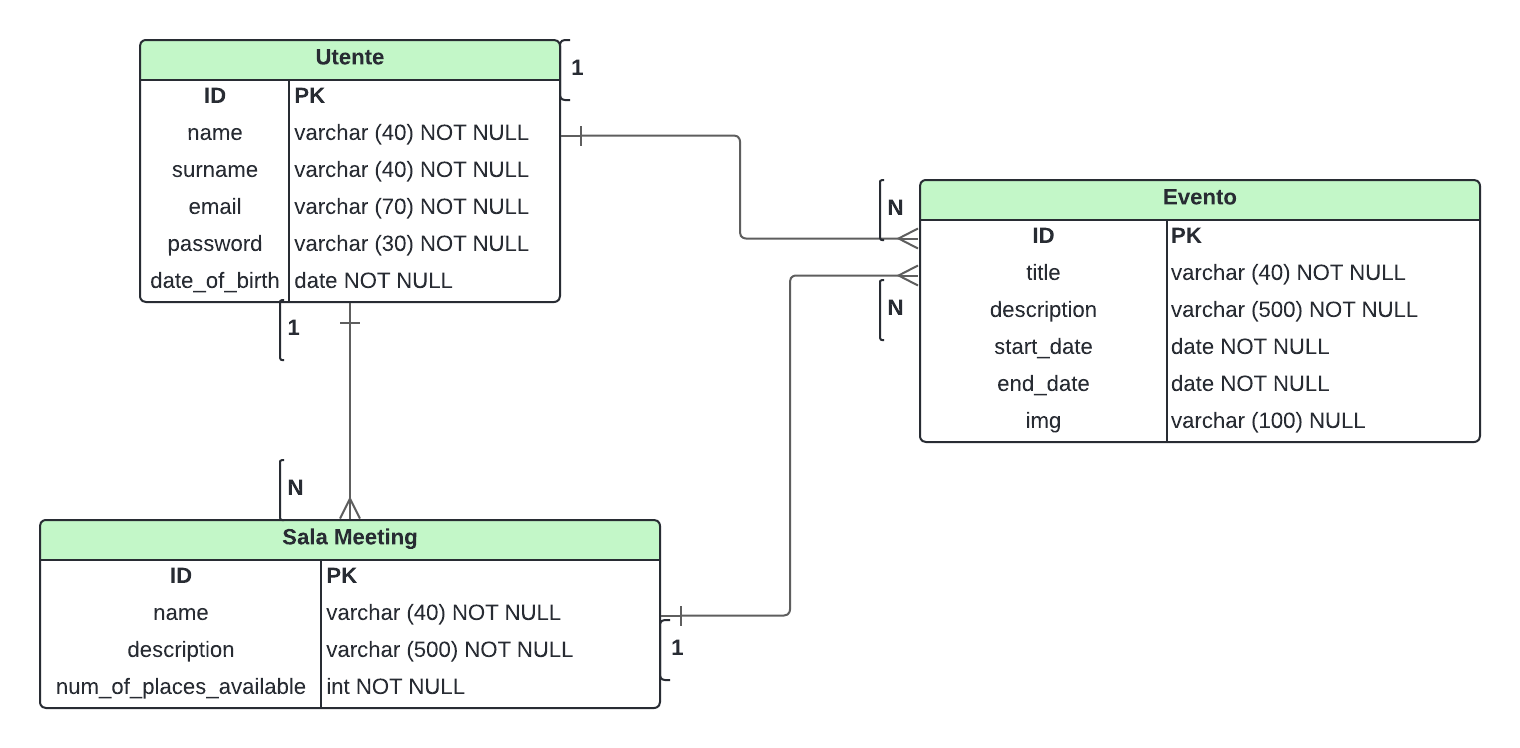
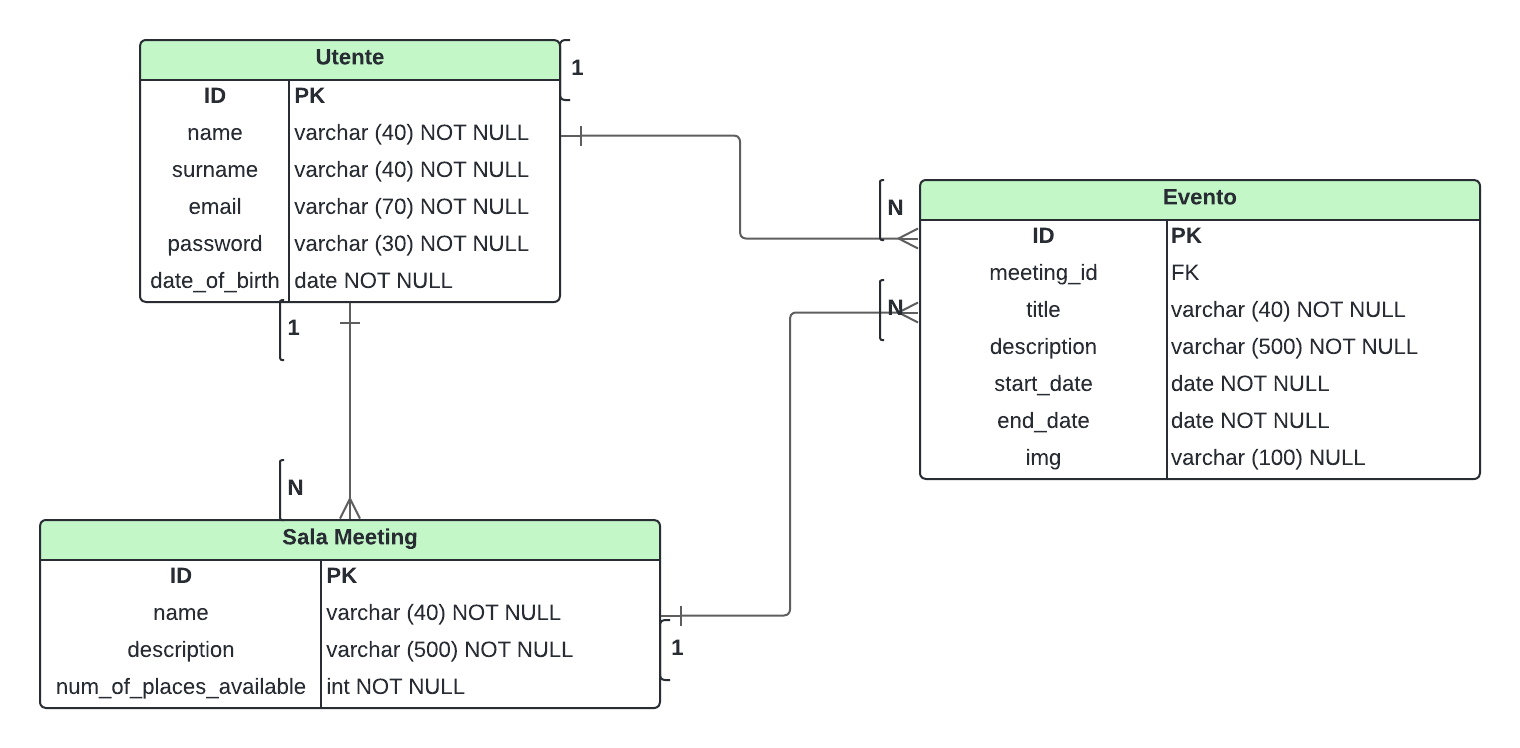
UP: Edit file of ER database, add route, style and dashboard controller

diff --git a/resources/scss/app.scss b/resources/scss/app.scss
@@ -1,1 +1,81 @@
-@import '~bootstrap/scss/bootstrap'
+// IMPORTO BOOTSTRAP
+@import '~bootstrap/scss/bootstrap';
+
+// IMPORTO IL FONT
+@import url('https://fonts.googleapis.com/css2?family=Montserrat&display=swap');
+
+// REGOLE CSS GENERALI
+* {
+    margin: 0;
+    padding: 0;
+    box-sizing: border-box;
+}
+
+// BODY
+body {
+    font-family: 'Montserrat', sans-serif;
+}
+
+// HEADER
+.header-nav {
+    z-index: 2;
+}
+
+.nav-header {
+    text-decoration: none;
+    color: white;
+    transition: 0.2s;
+    border-bottom: 3px solid transparent;
+
+    &.active,
+    &:hover {
+        color: #00c1d4;
+        font-weight: 900;
+        transform: scale(1.2);
+    }
+}
+
+// SIDEBAR
+.nav-link {
+    transition: 0.5s;
+    color: white;
+
+    &:hover {
+        background-color: #6C63FF;
+        border-radius: 7px;
+        color: white;
+    }
+}
+
+.nav-bottom {
+    background-color: #6C63FF;
+    border-radius: 13px;
+    margin: 5px 0;
+    transition: 0.4s;
+
+    &:hover {
+        transform: scale(1.1);
+    }
+}
+
+.navbar-nav .nav-link.active,
+.navbar-nav .nav-link.show {
+    background-color: #6C63FF;
+    border-radius: 7px;
+    color: white;
+}
+
+.lateral-sidebar {
+    height: 100vh;
+    width: 200px;
+    position: fixed;
+    z-index: 1;
+    top: 0;
+    left: 0;
+    overflow-y: hidden;
+    padding-top: 45px;
+}
+
+.bg-violet{
+    background-color: #6C63FF;
+}

diff --git a/resources/views/layouts/app.blade.php b/resources/views/layouts/app.blade.php
@@ -21,70 +21,10 @@
 
 <body>
     <div id="app">
-
-
-        <nav class="navbar navbar-expand-md navbar-light bg-white shadow-sm">
-            <div class="container">
-                <a class="navbar-brand d-flex align-items-center" href="{{ url('/') }}">
-                    <div class="logo_laravel">
-                        <svg viewBox="0 0 651 192" fill="none" xmlns="http://www.w3.org/2000/svg" style="width: 150px">
-                            <g clip-path="url(#clip0)" fill="#EF3B2D">
-                                <path d="M248.032 44.676h-16.466v100.23h47.394v-14.748h-30.928V44.676zM337.091 87.202c-2.101-3.341-5.083-5.965-8.949-7.875-3.865-1.909-7.756-2.864-11.669-2.864-5.062 0-9.69.931-13.89 2.792-4.201 1.861-7.804 4.417-10.811 7.661-3.007 3.246-5.347 6.993-7.016 11.239-1.672 4.249-2.506 8.713-2.506 13.389 0 4.774.834 9.26 2.506 13.459 1.669 4.202 4.009 7.925 7.016 11.169 3.007 3.246 6.609 5.799 10.811 7.66 4.199 1.861 8.828 2.792 13.89 2.792 3.913 0 7.804-.955 11.669-2.863 3.866-1.908 6.849-4.533 8.949-7.875v9.021h15.607V78.182h-15.607v9.02zm-1.431 32.503c-.955 2.578-2.291 4.821-4.009 6.73-1.719 1.91-3.795 3.437-6.229 4.582-2.435 1.146-5.133 1.718-8.091 1.718-2.96 0-5.633-.572-8.019-1.718-2.387-1.146-4.438-2.672-6.156-4.582-1.719-1.909-3.032-4.152-3.938-6.73-.909-2.577-1.36-5.298-1.36-8.161 0-2.864.451-5.585 1.36-8.162.905-2.577 2.219-4.819 3.938-6.729 1.718-1.908 3.77-3.437 6.156-4.582 2.386-1.146 5.059-1.718 8.019-1.718 2.958 0 5.656.572 8.091 1.718 2.434 1.146 4.51 2.674 6.229 4.582 1.718 1.91 3.054 4.152 4.009 6.729.953 2.577 1.432 5.298 1.432 8.162-.001 2.863-.479 5.584-1.432 8.161zM463.954 87.202c-2.101-3.341-5.083-5.965-8.949-7.875-3.865-1.909-7.756-2.864-11.669-2.864-5.062 0-9.69.931-13.89 2.792-4.201 1.861-7.804 4.417-10.811 7.661-3.007 3.246-5.347 6.993-7.016 11.239-1.672 4.249-2.506 8.713-2.506 13.389 0 4.774.834 9.26 2.506 13.459 1.669 4.202 4.009 7.925 7.016 11.169 3.007 3.246 6.609 5.799 10.811 7.66 4.199 1.861 8.828 2.792 13.89 2.792 3.913 0 7.804-.955 11.669-2.863 3.866-1.908 6.849-4.533 8.949-7.875v9.021h15.607V78.182h-15.607v9.02zm-1.432 32.503c-.955 2.578-2.291 4.821-4.009 6.73-1.719 1.91-3.795 3.437-6.229 4.582-2.435 1.146-5.133 1.718-8.091 1.718-2.96 0-5.633-.572-8.019-1.718-2.387-1.146-4.438-2.672-6.156-4.582-1.719-1.909-3.032-4.152-3.938-6.73-.909-2.577-1.36-5.298-1.36-8.161 0-2.864.451-5.585 1.36-8.162.905-2.577 2.219-4.819 3.938-6.729 1.718-1.908 3.77-3.437 6.156-4.582 2.386-1.146 5.059-1.718 8.019-1.718 2.958 0 5.656.572 8.091 1.718 2.434 1.146 4.51 2.674 6.229 4.582 1.718 1.91 3.054 4.152 4.009 6.729.953 2.577 1.432 5.298 1.432 8.162 0 2.863-.479 5.584-1.432 8.161zM650.772 44.676h-15.606v100.23h15.606V44.676zM365.013 144.906h15.607V93.538h26.776V78.182h-42.383v66.724zM542.133 78.182l-19.616 51.096-19.616-51.096h-15.808l25.617 66.724h19.614l25.617-66.724h-15.808zM591.98 76.466c-19.112 0-34.239 15.706-34.239 35.079 0 21.416 14.641 35.079 36.239 35.079 12.088 0 19.806-4.622 29.234-14.688l-10.544-8.158c-.006.008-7.958 10.449-19.832 10.449-13.802 0-19.612-11.127-19.612-16.884h51.777c2.72-22.043-11.772-40.877-33.023-40.877zm-18.713 29.28c.12-1.284 1.917-16.884 18.589-16.884 16.671 0 18.697 15.598 18.813 16.884h-37.402zM184.068 43.892c-.024-.088-.073-.165-.104-.25-.058-.157-.108-.316-.191-.46-.056-.097-.137-.176-.203-.265-.087-.117-.161-.242-.265-.345-.085-.086-.194-.148-.29-.223-.109-.085-.206-.182-.327-.252l-.002-.001-.002-.002-35.648-20.524a2.971 2.971 0 00-2.964 0l-35.647 20.522-.002.002-.002.001c-.121.07-.219.167-.327.252-.096.075-.205.138-.29.223-.103.103-.178.228-.265.345-.066.089-.147.169-.203.265-.083.144-.133.304-.191.46-.031.085-.08.162-.104.25-.067.249-.103.51-.103.776v38.979l-29.706 17.103V24.493a3 3 0 00-.103-.776c-.024-.088-.073-.165-.104-.25-.058-.157-.108-.316-.191-.46-.056-.097-.137-.176-.203-.265-.087-.117-.161-.242-.265-.345-.085-.086-.194-.148-.29-.223-.109-.085-.206-.182-.327-.252l-.002-.001-.002-.002L40.098 1.396a2.971 2.971 0 00-2.964 0L1.487 21.919l-.002.002-.002.001c-.121.07-.219.167-.327.252-.096.075-.205.138-.29.223-.103.103-.178.228-.265.345-.066.089-.147.169-.203.265-.083.144-.133.304-.191.46-.031.085-.08.162-.104.25-.067.249-.103.51-.103.776v122.09c0 1.063.568 2.044 1.489 2.575l71.293 41.045c.156.089.324.143.49.202.078.028.15.074.23.095a2.98 2.98 0 001.524 0c.069-.018.132-.059.2-.083.176-.061.354-.119.519-.214l71.293-41.045a2.971 2.971 0 001.489-2.575v-38.979l34.158-19.666a2.971 2.971 0 001.489-2.575V44.666a3.075 3.075 0 00-.106-.774zM74.255 143.167l-29.648-16.779 31.136-17.926.001-.001 34.164-19.669 29.674 17.084-21.772 12.428-43.555 24.863zm68.329-76.259v33.841l-12.475-7.182-17.231-9.92V49.806l12.475 7.182 17.231 9.92zm2.97-39.335l29.693 17.095-29.693 17.095-29.693-17.095 29.693-17.095zM54.06 114.089l-12.475 7.182V46.733l17.231-9.92 12.475-7.182v74.537l-17.231 9.921zM38.614 7.398l29.693 17.095-29.693 17.095L8.921 24.493 38.614 7.398zM5.938 29.632l12.475 7.182 17.231 9.92v79.676l.001.005-.001.006c0 .114.032.221.045.333.017.146.021.294.059.434l.002.007c.032.117.094.222.14.334.051.124.088.255.156.371a.036.036 0 00.004.009c.061.105.149.191.222.288.081.105.149.22.244.314l.008.01c.084.083.19.142.284.215.106.083.202.178.32.247l.013.005.011.008 34.139 19.321v34.175L5.939 144.867V29.632h-.001zm136.646 115.235l-65.352 37.625V148.31l48.399-27.628 16.953-9.677v33.862zm35.646-61.22l-29.706 17.102V66.908l17.231-9.92 12.475-7.182v33.841z" />
-                            </g>
-                        </svg>
-                    </div>
-                    {{-- config('app.name', 'Laravel') --}}
-                </a>
-
-                <button class="navbar-toggler" type="button" data-bs-toggle="collapse" data-bs-target="#navbarSupportedContent" aria-controls="navbarSupportedContent" aria-expanded="false" aria-label="{{ __('Toggle navigation') }}">
-                    <span class="navbar-toggler-icon"></span>
-                </button>
-
-                <div class="collapse navbar-collapse" id="navbarSupportedContent">
-                    <!-- Left Side Of Navbar -->
-                    <ul class="navbar-nav me-auto">
-                        <li class="nav-item">
-                            <a class="nav-link" href="{{url('/') }}">{{ __('Home') }}</a>
-                        </li>
-                    </ul>
-
-                    <!-- Right Side Of Navbar -->
-                    <ul class="navbar-nav ml-auto">
-                        <!-- Authentication Links -->
-                        @guest
-                        <li class="nav-item">
-                            <a class="nav-link" href="{{ route('login') }}">{{ __('Login') }}</a>
-                        </li>
-                        @if (Route::has('register'))
-                        <li class="nav-item">
-                            <a class="nav-link" href="{{ route('register') }}">{{ __('Register') }}</a>
-                        </li>
-                        @endif
-                        @else
-                        <li class="nav-item dropdown">
-                            <a id="navbarDropdown" class="nav-link dropdown-toggle" href="#" role="button" data-bs-toggle="dropdown" aria-haspopup="true" aria-expanded="false" v-pre>
-                                {{ Auth::user()->name }}
-                            </a>
-
-                            <div class="dropdown-menu dropdown-menu-right" aria-labelledby="navbarDropdown">
-                                <a class="dropdown-item" href="{{ url('dashboard') }}">{{__('Dashboard')}}</a>
-                                <a class="dropdown-item" href="{{ url('profile') }}">{{__('Profile')}}</a>
-                                <a class="dropdown-item" href="{{ route('logout') }}" onclick="event.preventDefault();
-                                                     document.getElementById('logout-form').submit();">
-                                    {{ __('Logout') }}
-                                </a>
-
-                                <form id="logout-form" action="{{ route('logout') }}" method="POST" class="d-none">
-                                    @csrf
-                                </form>
-                            </div>
-                        </li>
-                        @endguest
-                    </ul>
-                </div>
-            </div>
-        </nav>
-
+        {{-- HEADER --}}
+        @include('partials.header')
+        
+        {{-- MAIN --}}
         <main class="">
             @yield('content')
         </main>

diff --git a/resources/views/partials/header.blade.php b/resources/views/partials/header.blade.php
@@ -1,0 +1,61 @@
+<nav class="navbar navbar-expand-md navbar-light bg-dark shadow-sm header-nav">
+    <div class="container">
+        <a class="navbar-brand d-flex align-items-center" href="{{ url('/') }}">
+            <div class="logo_laravel">
+                <svg viewBox="0 0 651 192" fill="none" xmlns="http://www.w3.org/2000/svg" style="width: 150px">
+                    <g clip-path="url(#clip0)" fill="#EF3B2D">
+                        <path d="M248.032 44.676h-16.466v100.23h47.394v-14.748h-30.928V44.676zM337.091 87.202c-2.101-3.341-5.083-5.965-8.949-7.875-3.865-1.909-7.756-2.864-11.669-2.864-5.062 0-9.69.931-13.89 2.792-4.201 1.861-7.804 4.417-10.811 7.661-3.007 3.246-5.347 6.993-7.016 11.239-1.672 4.249-2.506 8.713-2.506 13.389 0 4.774.834 9.26 2.506 13.459 1.669 4.202 4.009 7.925 7.016 11.169 3.007 3.246 6.609 5.799 10.811 7.66 4.199 1.861 8.828 2.792 13.89 2.792 3.913 0 7.804-.955 11.669-2.863 3.866-1.908 6.849-4.533 8.949-7.875v9.021h15.607V78.182h-15.607v9.02zm-1.431 32.503c-.955 2.578-2.291 4.821-4.009 6.73-1.719 1.91-3.795 3.437-6.229 4.582-2.435 1.146-5.133 1.718-8.091 1.718-2.96 0-5.633-.572-8.019-1.718-2.387-1.146-4.438-2.672-6.156-4.582-1.719-1.909-3.032-4.152-3.938-6.73-.909-2.577-1.36-5.298-1.36-8.161 0-2.864.451-5.585 1.36-8.162.905-2.577 2.219-4.819 3.938-6.729 1.718-1.908 3.77-3.437 6.156-4.582 2.386-1.146 5.059-1.718 8.019-1.718 2.958 0 5.656.572 8.091 1.718 2.434 1.146 4.51 2.674 6.229 4.582 1.718 1.91 3.054 4.152 4.009 6.729.953 2.577 1.432 5.298 1.432 8.162-.001 2.863-.479 5.584-1.432 8.161zM463.954 87.202c-2.101-3.341-5.083-5.965-8.949-7.875-3.865-1.909-7.756-2.864-11.669-2.864-5.062 0-9.69.931-13.89 2.792-4.201 1.861-7.804 4.417-10.811 7.661-3.007 3.246-5.347 6.993-7.016 11.239-1.672 4.249-2.506 8.713-2.506 13.389 0 4.774.834 9.26 2.506 13.459 1.669 4.202 4.009 7.925 7.016 11.169 3.007 3.246 6.609 5.799 10.811 7.66 4.199 1.861 8.828 2.792 13.89 2.792 3.913 0 7.804-.955 11.669-2.863 3.866-1.908 6.849-4.533 8.949-7.875v9.021h15.607V78.182h-15.607v9.02zm-1.432 32.503c-.955 2.578-2.291 4.821-4.009 6.73-1.719 1.91-3.795 3.437-6.229 4.582-2.435 1.146-5.133 1.718-8.091 1.718-2.96 0-5.633-.572-8.019-1.718-2.387-1.146-4.438-2.672-6.156-4.582-1.719-1.909-3.032-4.152-3.938-6.73-.909-2.577-1.36-5.298-1.36-8.161 0-2.864.451-5.585 1.36-8.162.905-2.577 2.219-4.819 3.938-6.729 1.718-1.908 3.77-3.437 6.156-4.582 2.386-1.146 5.059-1.718 8.019-1.718 2.958 0 5.656.572 8.091 1.718 2.434 1.146 4.51 2.674 6.229 4.582 1.718 1.91 3.054 4.152 4.009 6.729.953 2.577 1.432 5.298 1.432 8.162 0 2.863-.479 5.584-1.432 8.161zM650.772 44.676h-15.606v100.23h15.606V44.676zM365.013 144.906h15.607V93.538h26.776V78.182h-42.383v66.724zM542.133 78.182l-19.616 51.096-19.616-51.096h-15.808l25.617 66.724h19.614l25.617-66.724h-15.808zM591.98 76.466c-19.112 0-34.239 15.706-34.239 35.079 0 21.416 14.641 35.079 36.239 35.079 12.088 0 19.806-4.622 29.234-14.688l-10.544-8.158c-.006.008-7.958 10.449-19.832 10.449-13.802 0-19.612-11.127-19.612-16.884h51.777c2.72-22.043-11.772-40.877-33.023-40.877zm-18.713 29.28c.12-1.284 1.917-16.884 18.589-16.884 16.671 0 18.697 15.598 18.813 16.884h-37.402zM184.068 43.892c-.024-.088-.073-.165-.104-.25-.058-.157-.108-.316-.191-.46-.056-.097-.137-.176-.203-.265-.087-.117-.161-.242-.265-.345-.085-.086-.194-.148-.29-.223-.109-.085-.206-.182-.327-.252l-.002-.001-.002-.002-35.648-20.524a2.971 2.971 0 00-2.964 0l-35.647 20.522-.002.002-.002.001c-.121.07-.219.167-.327.252-.096.075-.205.138-.29.223-.103.103-.178.228-.265.345-.066.089-.147.169-.203.265-.083.144-.133.304-.191.46-.031.085-.08.162-.104.25-.067.249-.103.51-.103.776v38.979l-29.706 17.103V24.493a3 3 0 00-.103-.776c-.024-.088-.073-.165-.104-.25-.058-.157-.108-.316-.191-.46-.056-.097-.137-.176-.203-.265-.087-.117-.161-.242-.265-.345-.085-.086-.194-.148-.29-.223-.109-.085-.206-.182-.327-.252l-.002-.001-.002-.002L40.098 1.396a2.971 2.971 0 00-2.964 0L1.487 21.919l-.002.002-.002.001c-.121.07-.219.167-.327.252-.096.075-.205.138-.29.223-.103.103-.178.228-.265.345-.066.089-.147.169-.203.265-.083.144-.133.304-.191.46-.031.085-.08.162-.104.25-.067.249-.103.51-.103.776v122.09c0 1.063.568 2.044 1.489 2.575l71.293 41.045c.156.089.324.143.49.202.078.028.15.074.23.095a2.98 2.98 0 001.524 0c.069-.018.132-.059.2-.083.176-.061.354-.119.519-.214l71.293-41.045a2.971 2.971 0 001.489-2.575v-38.979l34.158-19.666a2.971 2.971 0 001.489-2.575V44.666a3.075 3.075 0 00-.106-.774zM74.255 143.167l-29.648-16.779 31.136-17.926.001-.001 34.164-19.669 29.674 17.084-21.772 12.428-43.555 24.863zm68.329-76.259v33.841l-12.475-7.182-17.231-9.92V49.806l12.475 7.182 17.231 9.92zm2.97-39.335l29.693 17.095-29.693 17.095-29.693-17.095 29.693-17.095zM54.06 114.089l-12.475 7.182V46.733l17.231-9.92 12.475-7.182v74.537l-17.231 9.921zM38.614 7.398l29.693 17.095-29.693 17.095L8.921 24.493 38.614 7.398zM5.938 29.632l12.475 7.182 17.231 9.92v79.676l.001.005-.001.006c0 .114.032.221.045.333.017.146.021.294.059.434l.002.007c.032.117.094.222.14.334.051.124.088.255.156.371a.036.036 0 00.004.009c.061.105.149.191.222.288.081.105.149.22.244.314l.008.01c.084.083.19.142.284.215.106.083.202.178.32.247l.013.005.011.008 34.139 19.321v34.175L5.939 144.867V29.632h-.001zm136.646 115.235l-65.352 37.625V148.31l48.399-27.628 16.953-9.677v33.862zm35.646-61.22l-29.706 17.102V66.908l17.231-9.92 12.475-7.182v33.841z" />
+                    </g>
+                </svg>
+            </div>
+            {{-- config('app.name', 'Laravel') --}}
+        </a>
+
+        <button class="navbar-toggler" type="button" data-bs-toggle="collapse" data-bs-target="#navbarSupportedContent" aria-controls="navbarSupportedContent" aria-expanded="false" aria-label="{{ __('Toggle navigation') }}">
+            <span class="navbar-toggler-icon"></span>
+        </button>
+
+        <div class="collapse navbar-collapse" id="navbarSupportedContent">
+            <!-- Left Side Of Navbar -->
+            <ul class="navbar-nav me-auto">
+                <li class="nav-item">
+                    <a class="nav-link" href="{{url('/') }}">{{ __('Home') }}</a>
+                </li>
+            </ul>
+
+            <!-- Right Side Of Navbar -->
+            <ul class="navbar-nav ml-auto">
+                <!-- Authentication Links -->
+                @guest
+                <li class="nav-item">
+                    <a class="nav-link" href="{{ route('login') }}">{{ __('Login') }}</a>
+                </li>
+                @if (Route::has('register'))
+                <li class="nav-item">
+                    <a class="nav-link" href="{{ route('register') }}">{{ __('Register') }}</a>
+                </li>
+                @endif
+                @else
+                <li class="nav-item dropdown">
+                    <a id="navbarDropdown" class="nav-link dropdown-toggle" href="#" role="button" data-bs-toggle="dropdown" aria-haspopup="true" aria-expanded="false" v-pre>
+                        {{ Auth::user()->name }}
+                    </a>
+
+                    <div class="dropdown-menu dropdown-menu-right" aria-labelledby="navbarDropdown">
+                        <a class="dropdown-item" href="{{ url('dashboard') }}">{{__('Dashboard')}}</a>
+                        <a class="dropdown-item" href="{{ url('profile') }}">{{__('Profile')}}</a>
+                        <a class="dropdown-item" href="{{ route('logout') }}" onclick="event.preventDefault();
+                            document.getElementById('logout-form').submit();">
+                            {{ __('Logout') }}
+                        </a>
+
+                        <form id="logout-form" action="{{ route('logout') }}" method="POST" class="d-none">
+                            @csrf
+                        </form>
+                    </div>
+                </li>
+                @endguest
+            </ul>
+        </div>
+    </div>
+</nav>

diff --git a/resources/views/layouts/admin.blade.php b/resources/views/layouts/admin.blade.php
@@ -1,0 +1,61 @@
+<!doctype html>
+<html lang="{{ str_replace('_', '-', app()->getLocale()) }}">
+
+<head>
+    <meta charset="utf-8">
+    <meta name="viewport" content="width=device-width, initial-scale=1">
+
+    <!-- CSRF Token -->
+    <meta name="csrf-token" content="{{ csrf_token() }}">
+
+    <title>{{ config('app.name', 'Laravel') }}</title>
+
+
+    <!-- Fonts -->
+    <link rel="dns-prefetch" href="//fonts.gstatic.com">
+    <link href="https://fonts.googleapis.com/css?family=Nunito" rel="stylesheet">
+    <link rel="stylesheet" href="https://cdnjs.cloudflare.com/ajax/libs/font-awesome/6.5.2/css/all.min.css" integrity="sha512-SnH5WK+bZxgPHs44uWIX+LLJAJ9/2PkPKZ5QiAj6Ta86w+fsb2TkcmfRyVX3pBnMFcV7oQPJkl9QevSCWr3W6A==" crossorigin="anonymous" referrerpolicy="no-referrer" />
+
+    <!-- Usando Vite -->
+    @vite(['resources/js/app.js'])
+</head>
+
+<body>
+    <div id="app">
+         {{-- HEADER --}}
+        @include('partials.header')
+
+        {{-- SIDEBAR --}}
+        <div class="container-fluid">
+            <div class="row">
+                <nav id="sidebarMenu" class="col-md-3 col-lg-2 navbar-dark bg-dark d-flex flex-column justify-content-between lateral-sidebar">
+                    <div class="position-sticky pt-3">
+                        <ul class="nav flex-column pt-5">
+                            <li class="nav-item">
+                                <a href="{{ route('dashboard') }}" class="nav-link text-white {{ Route::currentRouteName() == 'dashboard' ? 'bg-violet rounded-2' : '' }}"><i class="fa-solid fa-tachometer-alt"></i> Dashboard</a>
+                            </li>
+                        </ul>
+                    </div>
+                    <div class="pb-3">
+                        <ul class="nav flex-column">
+                            <li class="nav-item">
+                                <a href="https://laravel.com/docs/11.x" class="nav-link nav-bottom text-white"><i class="fa-solid fa-headset"></i> Support</a>
+                            </li>
+                            <li class="nav-item">
+                                <a href="http://127.0.0.1:8000/profile" class="nav-link nav-bottom text-white"><i class="fa-solid fa-gear"></i> Settings</a>
+                            </li>
+                        </ul>
+                    </div>
+                </nav>
+                {{-- MAIN --}}
+                <div id="content">
+                    <main class="col-md-9 ms-sm-auto col-lg-10 pt-3">
+                        @yield('content')
+                    </main>
+                </div>
+            </div>
+        </div>
+    </div>
+</body>
+
+</html>

diff --git a/app/Http/Controllers/Admin/DashboardController.php b/app/Http/Controllers/Admin/DashboardController.php
@@ -1,0 +1,65 @@
+<?php
+
+namespace App\Http\Controllers\Admin;
+
+use App\Http\Controllers\Controller;
+use Illuminate\Http\Request;
+
+class DashboardController extends Controller
+{
+    /**
+     * Display a listing of the resource.
+     */
+    public function index()
+    {
+        return view('dashboard');
+    }
+
+    /**
+     * Show the form for creating a new resource.
+     */
+    public function create()
+    {
+        //
+    }
+
+    /**
+     * Store a newly created resource in storage.
+     */
+    public function store(Request $request)
+    {
+        //
+    }
+
+    /**
+     * Display the specified resource.
+     */
+    public function show(string $id)
+    {
+        //
+    }
+
+    /**
+     * Show the form for editing the specified resource.
+     */
+    public function edit(string $id)
+    {
+        //
+    }
+
+    /**
+     * Update the specified resource in storage.
+     */
+    public function update(Request $request, string $id)
+    {
+        //
+    }
+
+    /**
+     * Remove the specified resource from storage.
+     */
+    public function destroy(string $id)
+    {
+        //
+    }
+}

diff --git a/routes/web.php b/routes/web.php
@@ -1,5 +1,6 @@
 <?php
 
+use App\Http\Controllers\Admin\DashboardController;
 use App\Http\Controllers\ProfileController;
 use Illuminate\Support\Facades\Route;
 
@@ -10,6 +11,10 @@ Route::get('/', function () {
 Route::get('/dashboard', function () {
     return view('dashboard');
 })->middleware(['auth', 'verified'])->name('dashboard');
+
+Route::middleware(['auth', 'verified'])->name('admin.')->prefix('admin')->group(function () {
+    
+});
 
 Route::middleware('auth')->group(function () {
     Route::get('/profile', [ProfileController::class, 'edit'])->name('profile.edit');

diff --git a/resources/views/dashboard.blade.php b/resources/views/dashboard.blade.php
@@ -1,4 +1,4 @@
-@extends('layouts.app')
+@extends('layouts.admin')
 
 @section('content')
 <div class="container">
@@ -17,7 +17,7 @@
                     </div>
                     @endif
 
-                    {{ __('You are logged in!') }}
+                    {{ __('Benvenuto nel tuo gestionale!') }}
                 </div>
             </div>
         </div>
